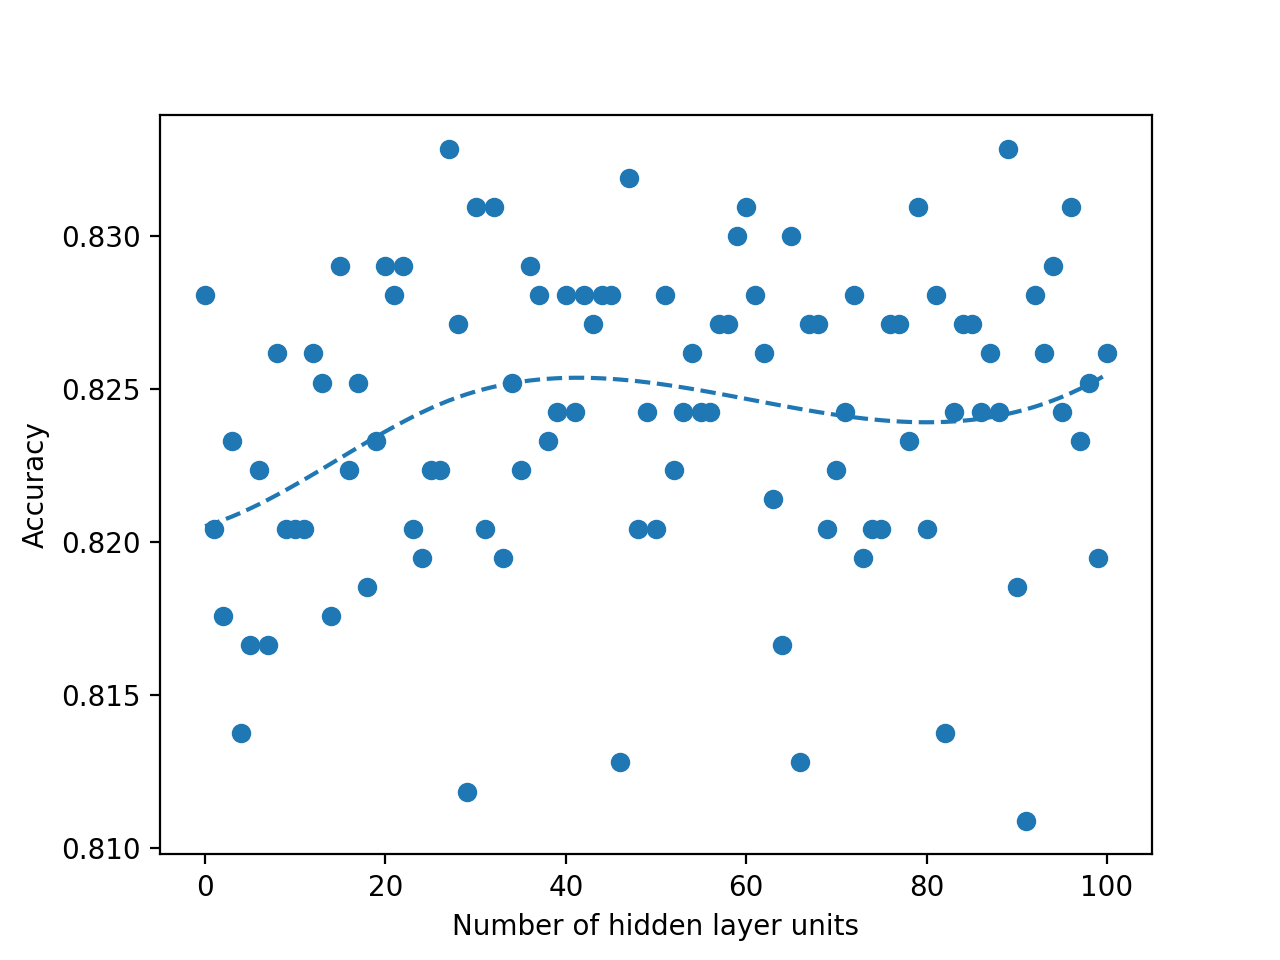
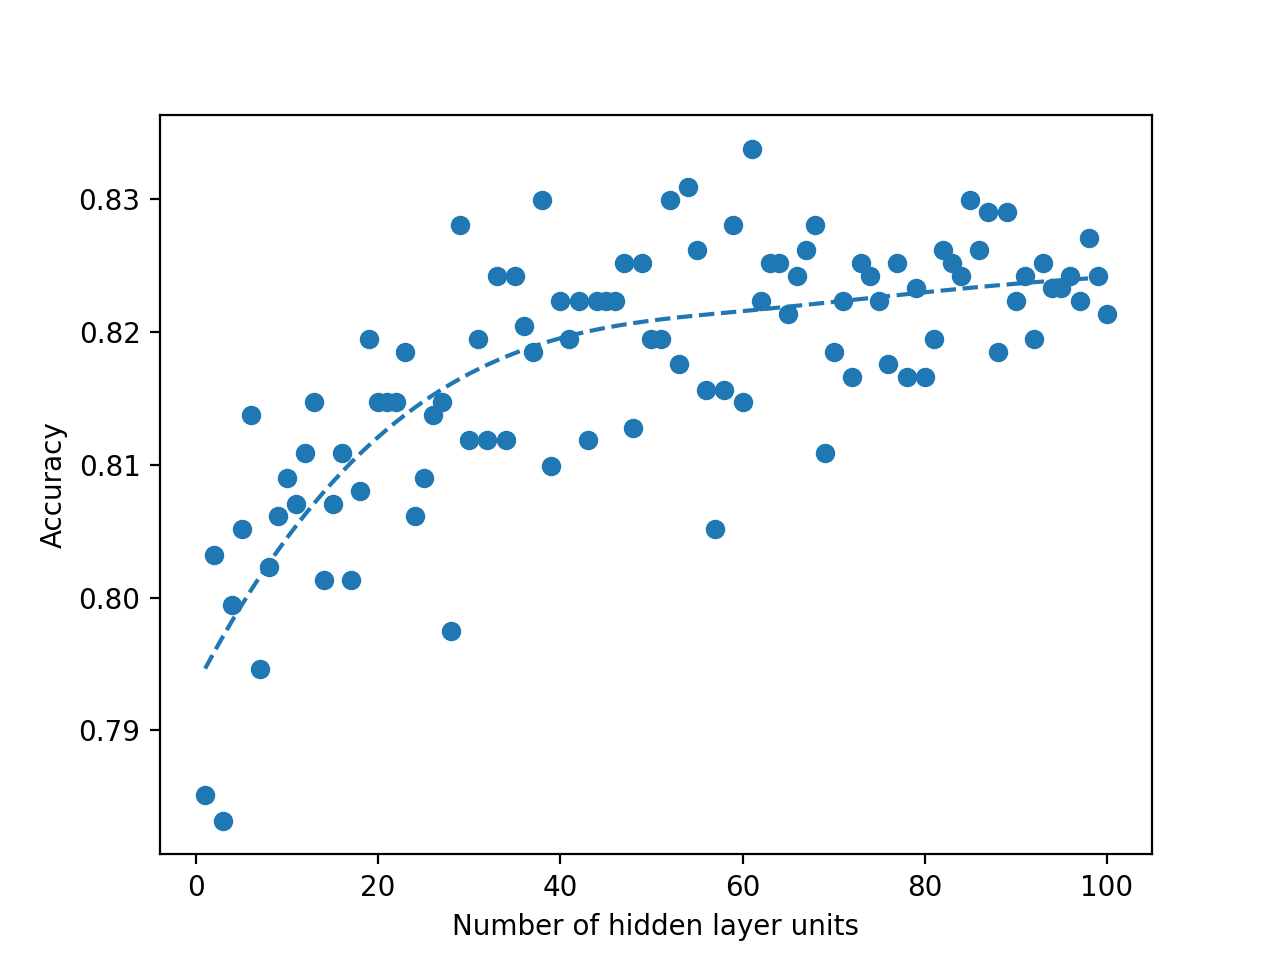
added detailed comments for search.py

diff --git a/binary_search_networks/search.py b/binary_search_networks/search.py
@@ -11,19 +11,36 @@ from scipy.stats import norm
 from sklearn.linear_model import LinearRegression
 
 def get_output_space(**args):
+
+	'''
+	Purpose: 
+	... retrieve the output space of the model from 1 to end.
+	Returns: 
+	... a: low bound of n
+	... b: high bound of n
+	... accuracy: a list of recorded accuracies at each recorded ni
+	'''
+
 	accuracys = []
-	a = 0
+	a = 1
 	b = args['n']
-	for i in range(a, b + 1):
+	for ni in range(a, b + 1):
+		args['n'] = ni
 		train_acc, test_acc = run_pipe(**args)
 		accuracys.append(train_acc)
 	return a, b, accuracys
 
 
 def plot_output_space(a, b, accuracys):
+	'''
+	Purpose: display the output space using a scatter plot and draw a cubic spline where t0 is at the maximum observed accuracy.
+	Returns: None
+	'''
+
 	x = [i for i in range(a, b + 1)]
 	y = accuracys
 	
+	# NODO: not sure if t is the correct parameter to select where the splines are broken up
 	tck = interpolate.splrep(x, y, s=0, t=[np.argmax(y)])
 	ynew = interpolate.splev(x, tck, der=0)
 	plt.scatter(x=x, y=y)
@@ -35,40 +52,83 @@ def plot_output_space(a, b, accuracys):
 
 
 def get_slope(**args):
+
+	'''
+	Purpose: given ni & nj in args, run the pipeline for both and calculate the slope of their respective train accuracies.
+	Returns:
+	... slope: the recorded slope between the accuracy at ni & nj separated by delta
+	'''
+
 	args['n'] = args['ni']
-	_, yi = run_pipe(**args)
+	train_acc_i, test_acc_i = run_pipe(**args)
 	args['n'] = args['nj']
-	_, yj = run_pipe(**args)
-	return (yj - yi) / (args['ni'] - args['nj'])
+	train_acc_i, test_acc_i = run_pipe(**args)
+	return (train_acc_i - train_acc_i) / (args['ni'] - args['nj'])
 
 
+# TODO: implement directionality i.e whether my contains positive slopes or negative slopes; this will simply introduce a 1 - P() for the likelihood if we are considering negative slopes (I think)
 def get_posterior_prob(gamma1, gamma2, mx, my, delta, sigma=0.5):
+	'''
+	Purpose: calculate the posterior probability according to the following beysian equation:
+		P(𝑚𝑎𝑥𝑖𝑚𝑢𝑚│𝑚_𝐿, m_𝑈, 𝛾_𝐿, 𝛾_𝑈, Δ) = P(𝑚_𝐿, 𝑚_𝑈│𝑚𝑎𝑥𝑖𝑚𝑢𝑚) * P(𝑚𝑎𝑥𝑖𝑚𝑢𝑚|𝛾_𝐿, 𝛾_𝑈, Δ)
+		posterior = likelihood * prior
+	where
+		P(𝑦=𝑚_𝐿,𝑚_𝑈│𝑚𝑎𝑥𝑖𝑚𝑢𝑚) ~ N(𝑦 ̌=𝛽_0+𝛽_1 ∗ 𝑥, 𝜎) and
+		P(𝑚𝑎𝑥𝑖𝑚𝑢𝑚│𝛾_𝐿, 𝛾_𝑈, Δ) = Δ / (𝛾_𝑈 − 𝛾_𝐿)
+	Returns:
+	... posterior: the product of the likelihood and prior which represents the probability that a maximum is between ni & nj
+	'''
 
+	# Compare the most recent slope to the past recorded slopes
 	xi = mx[-1]
 	yi = my[-1]
 
 	del mx[-1]
 	del my[-1]
 
-	x = np.array(mx).reshape((-1, 1))
-	y = np.array(my)
+	# Have to introduce three separate cases depending on the size of the previously recorded slopes
 
-	model = LinearRegression().fit(x, y)
-	y_pred = model.predict(xi)
+	# If there are not previously recorded slopes, model the probability if 1/yi because we expect a low probability of a nonzero slope but a high probability of a nonzero slope
+	if len(mx) == 0:
+		likelihood = norm(1/yi, sigma).pdf(1/yi)
 
-	likelihood = norm(y_pred, sigma).pdf(yi)
+	# If there is only one previously recorded slope, model the probability simply with the first recorded slope and a general sigma
+	elif len(mx) == 1:
+		likelihood = norm(my[0], sigma).pdf(yi)
+
+	# If there are more than one recorded slopes, then model the probability using the linear regression relationship... this may be adapted to be a polynomial if it does not fit it well
+	# TODO: create a plot describing slope vs n so check whether linear regression model is sufficient
+	else:
+		x = np.array(mx).reshape((-1, 1))
+		y = np.array(my)
+
+		model = LinearRegression().fit(x, y)
+		my_pred = model.predict(mx)
+		sigma = np.std(my_pred, my)
+
+		y_pred = model.predict(xi)
+
+		likelihood = norm(y_pred, sigma).pdf(yi)
 
 	pior = delta / (gamma2 - gamma1)
 
 	return likelihood * pior
 
-
+# TODO: given that delta is large (~50) and the posterior begins to increase, implement a way to decrease delta so that we come closer to the actual maximum
 def binary_search(**args):
+	'''
+	Purpose: find the maximum accuracy using binary search
+	Returns:
+	... mid: the found maximum accuracy
+	'''
+
+	# Gamma1 & gamma2 keep track of the current recorded upper and lower bounds to the number of units.
 	gamma1 = 1
 	gamma2 = args['n']
 
 	delta = args['delta']
 
+	# This is a threshold for when there is sufficient evidence that there is a maximum between ni & nj
 	posterior_alpha = args['posterior_alpha']
 
 	m1 = []
@@ -85,27 +145,32 @@ def binary_search(**args):
 
 		mi = get_slope(**args)
 
+		# When we are on the left side of the maximum
 		if mi > 0:
 			m1.append(mi)
 			mid1.append(mid)
 			args['ni'] = mid
-
+			# Get posterior probability (and if its sufficient, check the secant line on the respective side)
 			if get_posterior_prob(gamma1, gamma2, mid1, m1, delta) > posterior_alpha and get_slope(**args) < mi: # check if the slopes in between?
 
 				if_found = True
 				print("Maximum accuracy found at index {}".format(mid))
+				# TODO: decide if delta is sufficiently small than we can stop the search
 				return mid
 			else:
 				gamma1 = mid # + 1?
+		# When we are on the right side of the maximum
 		else:
 			m2.append(mi)
 			mid2.append(mid)
 			args['nj'] = mid
 
+			# Get posterior probability (and if its sufficient, check the secant line on the respective side)
 			if get_posterior_prob(gamma1, gamma2, mid2, m2, delta) > posterior_alpha and get_slope(**args) > mi:
 
 				if_found = True
 				print("Maximum accuracy found at index {}".format(mid))
+				# TODO: decide if delta is sufficiently small than we can stop the search
 				return mid
 
 			else:

diff --git a/binary_search_networks/binary_search_parser.py b/binary_search_networks/binary_search_parser.py
@@ -19,12 +19,12 @@ def binary_search_parser():
 	parser.add_argument('--batch_size', default=10, type=int, help='The batch size to train for.')
 	parser.add_argument('--early_stopping_patience', default=3, type=int, help='Number of epochs with no improvement after which training will be stopped if early stopping is enabled.')
 	parser.add_argument('--epoch', default=150, type=int, help='The number of epochs to train for.')
-	parser.add_argument('--n', default=5, type=int, help='The dimension of the hidden layer.')
+	parser.add_argument('--n', default=1000, type=int, help='The dimension of the hidden layer.')
 	parser.add_argument('--no_early_stopping', default=False, action='store_true', help='Do not do early stopping.')
 	parser.add_argument('--test_size', default=0.2, type=float, help='The proportion of data used for tests. Between 0 and 1.')
 	parser.add_argument('--validation_split', default=0.2, type=float, help='Validation split proportion while training. Between 0 and 1.')
 	parser.add_argument('--verbose', default=1, type=int, help='Verbose for training. Either 0, 1, or 2.')
 	parser.add_argument('--posterior_alpha', default=0.9, type=float, help='Probability threshold for sufficient evidence when evaluating posterior. Between 0 and 1')
-	parser.add_argument('--delta', default=3, type=int, help='The spacing between ni and nj when calculating the gradient of accuracy.')
+	parser.add_argument('--delta', default=50, type=int, help='The spacing between ni and nj when calculating the gradient of accuracy.')
 
 	return parser

diff --git a/run.py b/run.py
@@ -13,10 +13,10 @@ def main(args):
 
 	print(args)
 
-	#a, b, accuracys = get_output_space(**args)
-	#plot_output_space(a, b, accuracys)
+	a, b, accuracys = get_output_space(**args)
+	plot_output_space(a, b, accuracys)
 
-	binary_search(**args)
+	#binary_search(**args)
 
 	#run_pipe(**args)
 
